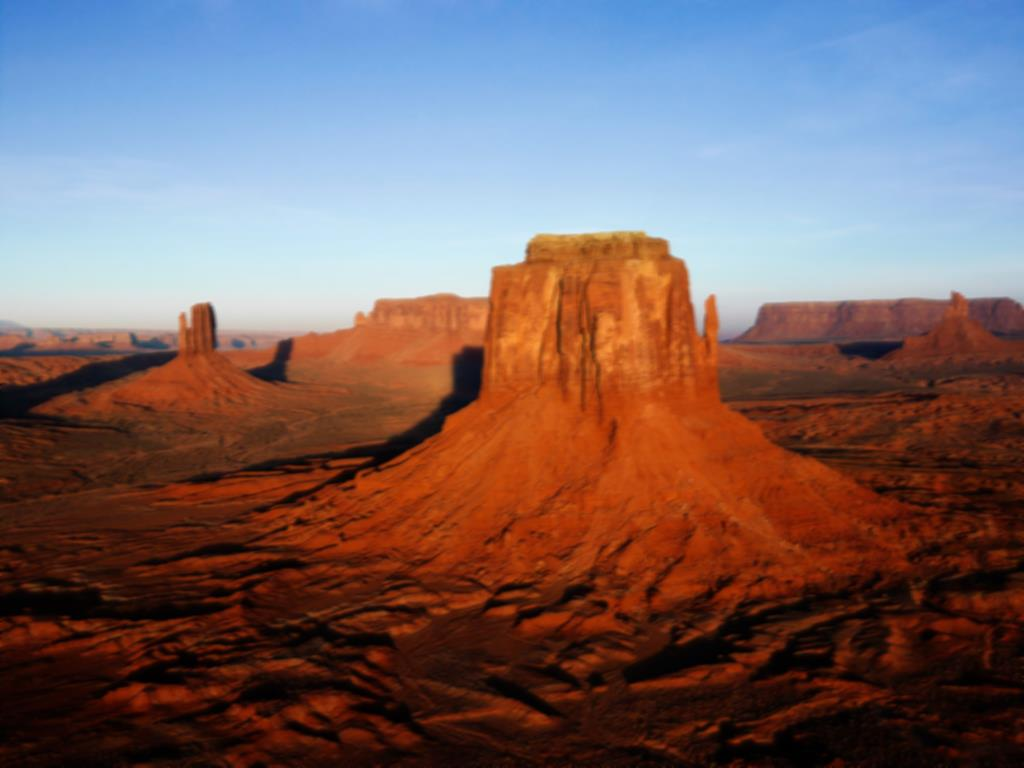
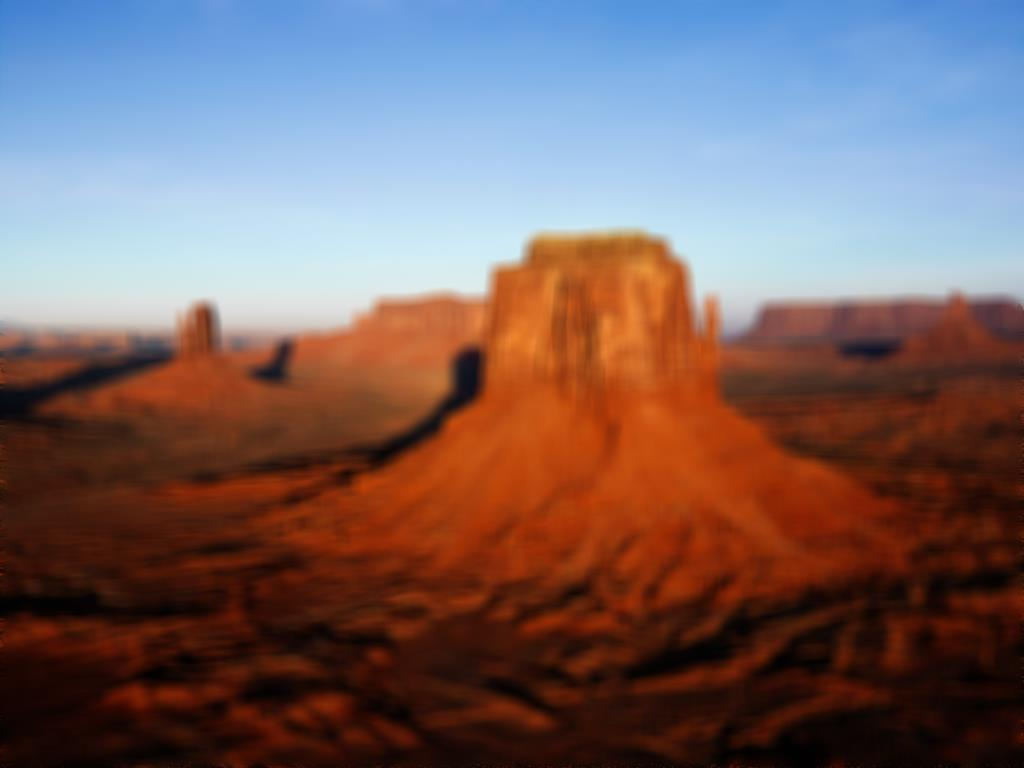
refactored whole thing

diff --git a/lection13/coursework/BlurImage/BlurImage.cs b/lection13/coursework/BlurImage/BlurImage.cs
@@ -9,91 +9,86 @@ internal class BlurImage
     {
         string path = "..\\..\\..\\";
         using Bitmap inputImage = new(path + "image.jpg");
-        inputImage.Save(path + "out.jpg", ImageFormat.Jpeg);
-        using Bitmap outputImage = inputImage;
-        int blurIntensity = 5;  // Можно использовать нечетные числа
 
-        BlurWholeImage(inputImage, outputImage, blurIntensity);
-        outputImage.Save(path + "out.jpg", ImageFormat.Jpeg);
-    }
+        int matrixSize = 15;  // Можно использовать нечетные числа
+        double[,] convolutionMatrix = new double[matrixSize, matrixSize];
+        double matrixElementRatio = 1.0 / (matrixSize * matrixSize);
 
-    // TODO стоит сделать, наверное, шарпен, тиснение и акварель
-
-    public static Bitmap BlurWholeImage(Bitmap inputImage, Bitmap outputImage, int blurIntensity)
-    {
-        Color[,] convolutionMatrix = new Color[blurIntensity, blurIntensity];
-
-        for (int y = 0; y < inputImage.Height; ++y)
+        for (int y = 0; y < matrixSize; y++)
         {
-            for (int x = 0; x < inputImage.Width; ++x)
+            for (int x = 0; x < matrixSize; x++)
             {
-                outputImage.SetPixel(x, y, GetBlurredPixel(x, y, inputImage, convolutionMatrix, blurIntensity));
+                convolutionMatrix[x, y] = matrixElementRatio;
             }
         }
 
-        return outputImage;
+        TransformImage(inputImage, path, convolutionMatrix);
     }
 
-    public static Color GetBlurredPixel(int x, int y, Bitmap inputImage, Color[,] convolutionMatrix, int blurIntensity)
+    public static void TransformImage(Bitmap inputImage, string path, double[,] convolutionMatrix)
     {
-        convolutionMatrix = GetConvolutionMatrix(x, y, inputImage, convolutionMatrix, blurIntensity);
-        (double, double, double) rgbSum = (0, 0, 0);
-
-        foreach (Color pixel in convolutionMatrix)
-        {
-            rgbSum.Item1 += pixel.R;
-            rgbSum.Item2 += pixel.G;
-            rgbSum.Item3 += pixel.B;
-        }
-
-        blurIntensity *= blurIntensity;
-
-        return Color.FromArgb(
-            Saturate(rgbSum.Item1 / blurIntensity),
-            Saturate(rgbSum.Item2 / blurIntensity),
-            Saturate(rgbSum.Item3 / blurIntensity));
-    }
-
-    public static Color[,] GetConvolutionMatrix(int x, int y, Bitmap inputImage, Color[,] convolutionMatrix, int matrixSize)
-    {
+        int matrixSize = convolutionMatrix.GetLength(0);
         int halfMatrixSize = matrixSize / 2;
+        int imageHeight = inputImage.Height;
+        int imageWidth = inputImage.Width;
 
-        for (int i = 0; i < matrixSize; i++)
+        using Bitmap outputImage = new(inputImage.Width, inputImage.Height);
+
+        for (int y = 0; y < imageHeight; y++)
         {
-            for (int j = 0; j < matrixSize; j++)
+            for (int x = 0; x < imageWidth; x++)
             {
-                int currentPositionX = x - halfMatrixSize + j;
-                int currentPositionY = y - halfMatrixSize + i;
+                double transformedR = 0;
+                double transformedG = 0;
+                double transformedB = 0;
+                int neighborY = y - halfMatrixSize;
 
-                if (currentPositionX < 0 || currentPositionX >= inputImage.Width
-                    || currentPositionY < 0 || currentPositionY >= inputImage.Height)
+                for (int i = 0; i < matrixSize; i++, neighborY++)
                 {
-                    convolutionMatrix[i, j] = inputImage.GetPixel(x, y);
+                    int neighborX = x - halfMatrixSize;
+
+                    for (int j = 0; j < matrixSize; j++, neighborX++)
+                    {
+                        Color pixel;
+
+                        if (neighborX < 0 || neighborX >= imageWidth
+                            || neighborY < 0 || neighborY >= imageHeight)
+                        {
+                            pixel = inputImage.GetPixel(x, y);
+                        }
+                        else
+                        {
+                            pixel = inputImage.GetPixel(neighborX, neighborY);
+                        }
+
+                        transformedR += pixel.R * convolutionMatrix[i, j];
+                        transformedG += pixel.G * convolutionMatrix[i, j];
+                        transformedB += pixel.B * convolutionMatrix[i, j];
+                    }
                 }
-                else
-                {
-                    convolutionMatrix[i, j] = inputImage.GetPixel(currentPositionX, currentPositionY);
-                }
+                transformedR = Saturate(transformedR);
+                transformedG = Saturate(transformedG);
+                transformedB = Saturate(transformedB);
+
+                outputImage.SetPixel(x, y, Color.FromArgb((int)transformedR, (int)transformedG, (int)transformedB));
             }
         }
 
-        return convolutionMatrix;
+        outputImage.Save(path + "out.jpg", ImageFormat.Jpeg);
     }
 
     public static int Saturate(double colorComponent)
     {
-        int roundedColorComponent = (int)Math.Round(colorComponent, MidpointRounding.AwayFromZero);
-
-        if (roundedColorComponent < 0)
+        if (colorComponent <= 0)
         {
             return 0;
         }
 
-        if (roundedColorComponent > 255)
+        if (colorComponent >= 255)
         {
             return 255;
         }
 
-        return roundedColorComponent;
+        return (int)Math.Round(colorComponent, MidpointRounding.AwayFromZero);
     }
 }

diff --git a/lection13/coursework/BlurImage — копия/BlurImage.cs b/lection13/coursework/BlurImage — копия/BlurImage.cs
@@ -1,0 +1,95 @@
+using System.Drawing;
+using System.Drawing.Imaging;
+
+namespace BlurImage;
+
+internal class BlurImage
+{
+    static void Main(string[] args)
+    {
+        string path = "..\\..\\..\\";
+        using Bitmap inputImage = new(path + "image.jpg");
+        inputImage.Save(path + "out.jpg", ImageFormat.Jpeg);
+        using Bitmap outputImage = inputImage;
+
+        BlurWholeImage(inputImage, outputImage, 5);
+        outputImage.Save(path + "out.jpg", ImageFormat.Jpeg);
+    }
+
+    public static Bitmap BlurWholeImage(Bitmap inputImage, Bitmap outputImage, int blurIntensity)
+    {
+        for (int y = 0; y < inputImage.Height; ++y)
+        {
+            for (int x = 0; x < inputImage.Width; ++x)
+            {
+                outputImage.SetPixel(x, y, GetBlurredPixel(x, y, inputImage, blurIntensity));
+            }
+        }
+
+        return outputImage;
+    }
+
+    public static Color GetBlurredPixel(int x, int y, Bitmap inputImage, int blurIntensity)
+    {
+        Color[,] convolutionMatrix = GetConvolutionMatrix(x, y, inputImage, blurIntensity);
+        (double, double, double) rgbSum = (0, 0, 0);
+
+        foreach (Color pixel in convolutionMatrix)
+        {
+            rgbSum.Item1 += pixel.R;
+            rgbSum.Item2 += pixel.G;
+            rgbSum.Item3 += pixel.B;
+        }
+
+        blurIntensity *= blurIntensity;
+        rgbSum.Item1 /= blurIntensity;
+        rgbSum.Item2 /= blurIntensity;
+        rgbSum.Item3 /= blurIntensity;
+
+        return Color.FromArgb(Saturate(rgbSum.Item1), Saturate(rgbSum.Item2), Saturate(rgbSum.Item3));
+    }
+
+    public static Color[,] GetConvolutionMatrix(int x, int y, Bitmap inputImage, int matrixSize)
+    {
+        Color[,] convolutionMatrix = new Color[matrixSize, matrixSize];
+        int halfMatrixSize = matrixSize / 2;
+
+        for (int i = 0; i < matrixSize; i++)
+        {
+            for (int j = 0; j < matrixSize; j++)
+            {
+                int currentPositionX = x - halfMatrixSize + j;
+                int currentPositionY = y - halfMatrixSize + i;
+
+                if (currentPositionX < 0 || currentPositionX + 1 > inputImage.Width
+                    || currentPositionY < 0 || currentPositionY + 1 > inputImage.Height)
+                {
+                    convolutionMatrix[i, j] = inputImage.GetPixel(x, y);
+                }
+                else
+                {
+                    convolutionMatrix[i, j] = inputImage.GetPixel(currentPositionX, currentPositionY);
+                }
+            }
+        }
+
+        return convolutionMatrix;
+    }
+
+    public static int Saturate(double colorComponent)
+    {
+        int roundedColorComponent = (int)Math.Round(colorComponent, MidpointRounding.AwayFromZero);
+
+        if (roundedColorComponent < 0)
+        {
+            return 0;
+        }
+
+        if (roundedColorComponent > 255)
+        {
+            return 255;
+        }
+
+        return roundedColorComponent;
+    }
+}

diff --git a/lection13/coursework/BlurImage.cs b/lection13/coursework/BlurImage.cs
@@ -1,0 +1,95 @@
+using System.Drawing;
+using System.Drawing.Imaging;
+
+namespace BlurImage;
+
+internal class BlurImage
+{
+    static void Main(string[] args)
+    {
+        string path = "..\\..\\..\\";
+        using Bitmap inputImage = new(path + "image.jpg");
+        inputImage.Save(path + "out.jpg", ImageFormat.Jpeg);
+        using Bitmap outputImage = inputImage;
+
+        BlurWholeImage(inputImage, outputImage, 3);
+        outputImage.Save(path + "out.jpg", ImageFormat.Jpeg);
+    }
+
+    public static Bitmap BlurWholeImage(Bitmap inputImage, Bitmap outputImage, int blurIntensity)
+    {
+        for (int y = 0; y < inputImage.Height; ++y)
+        {
+            for (int x = 0; x < inputImage.Width; ++x)
+            {
+                outputImage.SetPixel(x, y, GetBlurredPixel(x, y, inputImage, blurIntensity));
+            }
+        }
+
+        return outputImage;
+    }
+
+    public static Color GetBlurredPixel(int x, int y, Bitmap inputImage, int blurIntensity)
+    {
+        Color[,] convolutionMatrix = GetConvolutionMatrix(x, y, inputImage, blurIntensity);
+        (double, double, double) rgbSum = (0, 0, 0);
+
+        foreach (Color pixel in convolutionMatrix)
+        {
+            rgbSum.Item1 += pixel.R;
+            rgbSum.Item2 += pixel.G;
+            rgbSum.Item3 += pixel.B;
+        }
+
+        blurIntensity *= blurIntensity;
+        rgbSum.Item1 /= blurIntensity;
+        rgbSum.Item2 /= blurIntensity;
+        rgbSum.Item3 /= blurIntensity;
+
+        return Color.FromArgb(Saturate(rgbSum.Item1), Saturate(rgbSum.Item2), Saturate(rgbSum.Item3));
+    }
+
+    public static Color[,] GetConvolutionMatrix(int x, int y, Bitmap inputImage, int matrixSize)
+    {
+        Color[,] convolutionMatrix = new Color[matrixSize, matrixSize];
+        int halfMatrixSize = matrixSize / 2;
+
+        for (int i = 0; i < matrixSize; i++)
+        {
+            for (int j = 0; j < matrixSize; j++)
+            {
+                int currentPositionX = x - halfMatrixSize + j;
+                int currentPositionY = y - halfMatrixSize + i;
+
+                if (currentPositionX < 0 || currentPositionX + 1 > inputImage.Width
+                    || currentPositionY < 0 || currentPositionY + 1 > inputImage.Height)
+                {
+                    convolutionMatrix[i, j] = inputImage.GetPixel(x, y);
+                }
+                else
+                {
+                    convolutionMatrix[i, j] = inputImage.GetPixel(currentPositionX, currentPositionY);
+                }
+            }
+        }
+
+        return convolutionMatrix;
+    }
+
+    public static int Saturate(double colorComponent)
+    {
+        int roundedColorComponent = (int)Math.Round(colorComponent, MidpointRounding.AwayFromZero);
+
+        if (roundedColorComponent < 0)
+        {
+            return 0;
+        }
+
+        if (roundedColorComponent > 255)
+        {
+            return 255;
+        }
+
+        return roundedColorComponent;
+    }
+}

diff --git a/lection12/homework/OccurrencesNumber/OccurrencesAmount.cs b/lection12/homework/OccurrencesNumber/OccurrencesAmount.cs
@@ -25,7 +25,7 @@ internal class OccurrencesAmount
         int occurrencesAmount = 0;
         int index = 0;
 
-        while(true)
+        while (true)
         {
             index = line.IndexOf(substring, index, StringComparison.OrdinalIgnoreCase);
 
